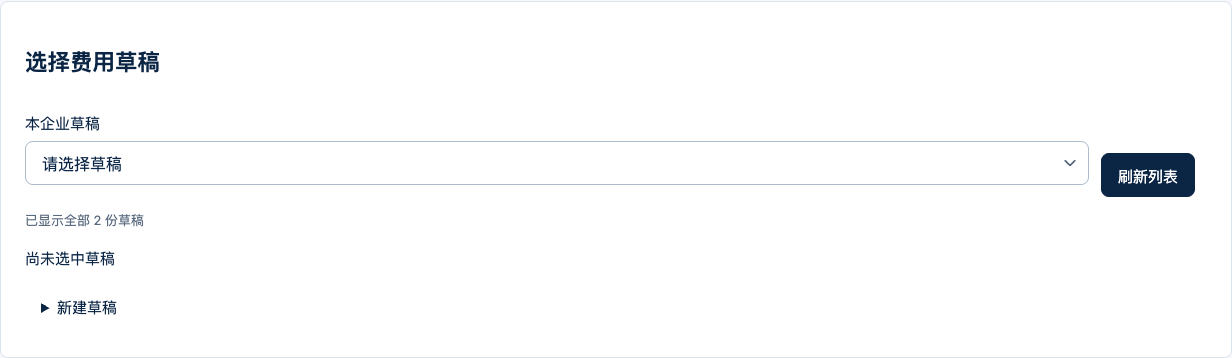
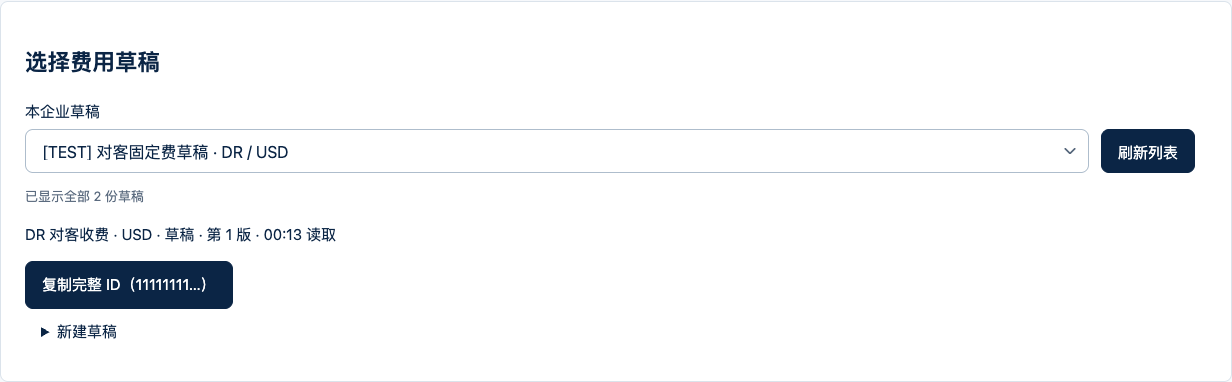
RF-PM-030 add picker alignment evidence

diff --git a/prototype/fees.css b/prototype/fees.css
@@ -1,3 +1,3 @@
 *{box-sizing:border-box}body{margin:0;background:#f6f8fb;color:#0b2545;font:15px/1.6 system-ui,sans-serif}header{background:#0b2545;padding:20px 32px;display:flex;justify-content:space-between;gap:20px;align-items:center}header img{width:168px}header a{color:white}main{max-width:1280px;margin:auto;padding:24px}.badge{display:inline-block;background:#e6f5f0;color:#086c57;padding:6px 12px;border-radius:8px}.card{background:white;border:1px solid #dbe3eb;border-radius:8px;margin:24px 0;padding:24px}.toolbar,nav{display:flex;align-items:end;gap:12px;flex-wrap:wrap}.toolbar label{flex:1}.fields{display:grid;grid-template-columns:repeat(2,minmax(0,1fr));gap:16px}.layout{display:grid;grid-template-columns:minmax(240px,1fr) minmax(0,2fr);gap:32px}label{display:block;margin:12px 0}input,select,textarea{width:100%;min-width:0;padding:12px;border:1px solid #aebdcc;border-radius:8px;font:16px system-ui;color:#0b2545;background:#fff;margin-top:6px}textarea{min-height:100px}.check{display:flex;align-items:center;gap:10px}.check input{width:22px;height:22px;margin:0}button,summary{min-height:48px;padding:12px 16px;font:15px system-ui;border-radius:8px;cursor:pointer}button{border:1px solid #0b2545;background:#0b2545;color:white}button:disabled{opacity:.45;cursor:default}button[aria-pressed=true],button[aria-current=true]{background:#087c66;color:white}nav button{background:white;color:#0b2545}fieldset{border:1px solid #dbe3eb;border-radius:8px;min-width:0;padding:20px}.hint,footer{color:#5b6b7f;font-size:13px}#fees{padding:0;list-style:none}#fees button{width:100%;text-align:left;background:white;color:#0b2545;border-color:#e0e7ed;margin:4px 0}#fees button[aria-current=true]{background:#e6f5f0;border-left:4px solid #087c66}small{display:block}.savebar{display:flex;flex-wrap:wrap;gap:12px;background:#edf6f3;padding:16px;margin-top:20px;border-top:2px solid #087c66;position:sticky;bottom:0}.savebar strong{flex:1}#status{padding:16px;background:#edf3f9;border-radius:8px}#errors{border:2px solid #b53630;background:#fff4f2;padding:20px;margin:16px 0}a{color:#075d9a}[aria-invalid=true]{border:2px solid #b53630}pre{white-space:pre-wrap;overflow-wrap:anywhere;background:#f6f8fb;padding:12px;font-size:13px}table{border-collapse:collapse;width:100%;font-variant-numeric:tabular-nums}td,th{padding:10px;text-align:left;border-bottom:1px solid #dbe3eb;overflow-wrap:anywhere}#compare-values{display:grid;grid-template-columns:repeat(3,minmax(0,1fr));gap:12px}dialog{max-width:calc(100% - 32px);border:1px solid #dbe3eb;border-radius:8px}dialog::backdrop{background:#0b254577}:focus-visible{outline:3px solid #e9a735;outline-offset:3px}[hidden]{display:none!important}@media(max-width:700px){header{padding:20px;display:block}header a{display:block;margin-top:12px}main{padding:16px}.card{padding:16px}.layout,.fields,#compare-values{grid-template-columns:1fr}.savebar strong{flex-basis:100%}.savebar button{flex:1}nav button{flex:1}h1{font-size:26px}}
-.policy-actions{display:flex;gap:12px;flex-wrap:wrap;margin-top:16px}.policy-levels{display:flex;gap:12px;flex-wrap:wrap}.policy-levels .check{margin:0}.policy-levels input{width:22px}.policy-actions button{background:#087c66}.tariff-picker-toolbar{--picker-control-height:44px;display:grid;grid-template-columns:minmax(0,1fr) auto auto;align-items:end}.tariff-picker-toolbar label{min-width:0}.tariff-picker-toolbar select,.tariff-picker-toolbar button{height:var(--picker-control-height);min-height:var(--picker-control-height);white-space:nowrap}.tariff-picker-toolbar button{align-self:end}@media(max-width:700px){.tariff-picker-toolbar{grid-template-columns:1fr 1fr;gap:10px}.tariff-picker-toolbar label{grid-column:1/-1}.tariff-picker-toolbar button{width:100%;align-self:stretch}}
+.policy-actions{display:flex;gap:12px;flex-wrap:wrap;margin-top:16px}.policy-levels{display:flex;gap:12px;flex-wrap:wrap}.policy-levels .check{margin:0}.policy-levels input{width:22px}.policy-actions button{background:#087c66}.tariff-picker-toolbar{--picker-control-height:44px;display:grid;grid-template-columns:minmax(0,1fr) auto auto;align-items:end}.tariff-picker-toolbar label{min-width:0;margin:0}.tariff-picker-toolbar select,.tariff-picker-toolbar button{height:var(--picker-control-height);min-height:var(--picker-control-height);white-space:nowrap}.tariff-picker-toolbar button{align-self:end}@media(max-width:700px){.tariff-picker-toolbar{grid-template-columns:1fr 1fr;gap:10px}.tariff-picker-toolbar label{grid-column:1/-1}.tariff-picker-toolbar button{width:100%;align-self:stretch}}
 @media(max-width:700px){.tariff-picker-toolbar #refresh{grid-column:1/-1}.tariff-picker-toolbar #more:not([hidden])~#refresh{grid-column:auto}}
